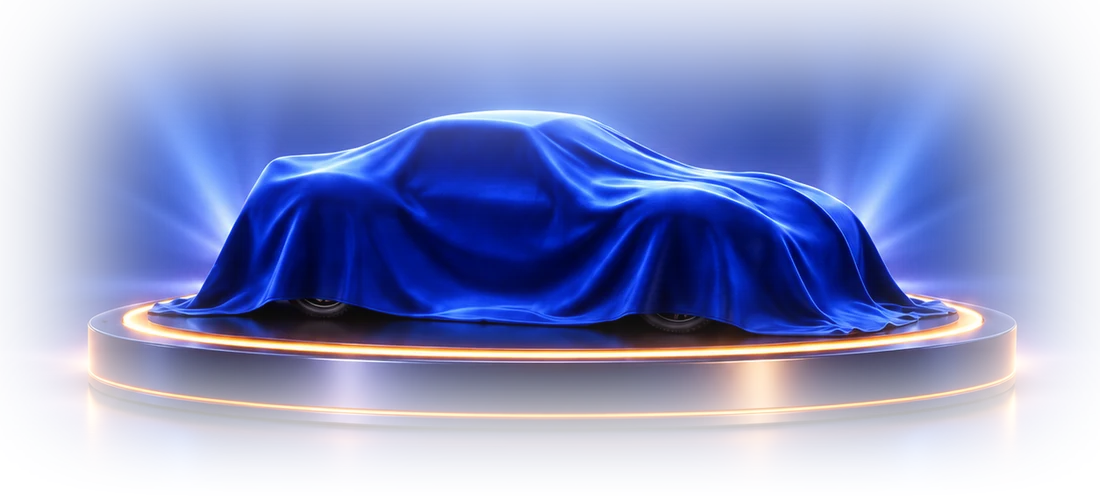
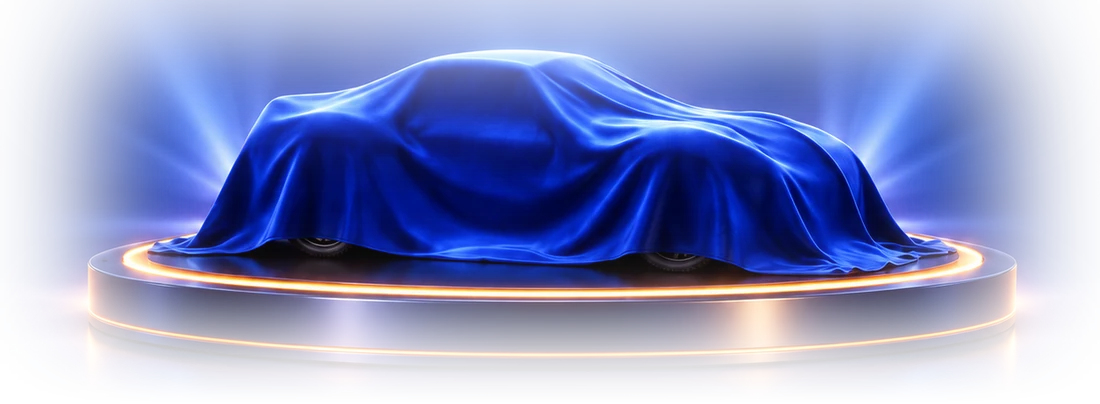
Fit Race now inside the real fold, and fix the countdown's reading
Three things.

The band was sized against an 812px viewport, which is not the fold on a
phone: Safari's own chrome and the bottom nav take most of 150px, so the real
first screen is nearer 600px of usable height and the Race now pill was
sitting under the nav. Measured against the nav rather than the viewport this
time, which is the mistake that hid it in the first place. Most of the 46px
came out of the plate — the previous crop carried a band of empty glow above
the roof and below the platform that cost height for no subject — and the rest
from the lockup and the spacing around the clock. Race now now clears the nav
on a 667px viewport with 8px to spare, and by 153px on a tall one.

"ENDS IN" is centred on its own line. Set beside the dates chip the two read
as one run-on phrase — "ends in 12-14 Nov" — which is not what either half was
saying. The window moves below the flaps, where it is a fact about the drop
rather than part of the countdown's sentence.

Days and hours rather than hours and minutes. Minutes moved faster than anyone
acts on a three-day drop, and folding days into hours turned a readable "2
days" into a 58 nobody parses at a glance.

The points counter under the plate is gone. Stating a personal score to grind
made the reveal sound like a private unlock; it is a campaign moment everyone
gets on the final day, so it now says that. MYSTERY_UNLOCK_POINTS stays in the
store where the rule lives — it is simply no longer quoted on the home screen.

diff --git a/src/styles/base.css b/src/styles/base.css
@@ -278,7 +278,7 @@ input, select, textarea { font: inherit; color: inherit; }
 .ctake {
   position: relative;
   margin-top: -1px;
-  padding: 30px var(--gut) 14px;
+  padding: 28px var(--gut) 12px;
   /* The reference storefronts all sit on one saturated colour — hot pink for
      Promise Day, deep red for Diwali, a bright blue for the ice cream. This
      was a muted navy, which is why it read as pale. */
@@ -340,7 +340,7 @@ input, select, textarea { font: inherit; color: inherit; }
      132px to save space took the occasion out of it. Back up, but short of the
      218px billboard that pushed the shop off the screen. */
   margin: 0 auto 2px;
-  max-width: 104px;
+  max-width: 72px;
   line-height: 0;
   filter: drop-shadow(0 6px 18px rgba(255, 120, 20, 0.45));
 }
@@ -355,7 +355,7 @@ input, select, textarea { font: inherit; color: inherit; }
    back exactly the rectangle the feathering exists to remove. */
 .mystery {
   width: calc(100% + var(--gut) * 2);
-  margin: 4px calc(var(--gut) * -1) 0;
+  margin: 0 calc(var(--gut) * -1) 0;
 }
 .mystery__plate {
   display: block; width: 100%;
@@ -370,7 +370,7 @@ input, select, textarea { font: inherit; color: inherit; }
    the artwork and the one thing there is to do, which is what it replaced. */
 .mystery__go {
   display: block;
-  margin: -26px auto 0;
+  margin: -34px auto 0;
   position: relative; z-index: 2;
   background: var(--yellow);
   color: var(--ink);
@@ -383,7 +383,7 @@ input, select, textarea { font: inherit; color: inherit; }
 
 /* The rule as a line of type, not a panel. */
 .mystery__prog {
-  margin: 5px var(--gut) 0;
+  margin: 4px var(--gut) 0;
   text-align: center;
   font-size: var(--f-xs); font-weight: 600;
   color: rgba(255, 255, 255, 0.72);
@@ -398,7 +398,7 @@ input, select, textarea { font: inherit; color: inherit; }
   display: flex; align-items: center; justify-content: center; gap: 6px;
   width: calc(100% + var(--gut) * 2);
   margin: 8px calc(var(--gut) * -1) -14px;
-  padding: 12px var(--gut) 14px;
+  padding: 11px var(--gut) 12px;
   background: rgba(0, 0, 0, 0.26);
   border: 0;
   color: #fff;
@@ -1093,23 +1093,25 @@ input, select, textarea { font: inherit; color: inherit; }
   text-align: center;
   color: #fff;
 }
-.dropclock__head {
-  display: flex; align-items: center; justify-content: center; gap: 8px;
-  margin-bottom: 5px;
-}
 .dropclock__lead {
+  display: block;
   font-size: var(--f-2xs); font-weight: 800;
   letter-spacing: 0.16em; text-transform: uppercase;
   color: var(--yellow);
+  margin-bottom: 4px;
 }
 /* The dates were a 9px grey line under everything and were being lost. Set as
    a solid chip beside the lead, they read at a glance and stop competing with
    the flaps for the same greyed-out register. */
+/* Under the flaps rather than beside the lead. The window is a fact about the
+   drop, not part of the sentence the countdown is saying. */
 .dropclock__dates {
+  display: inline-block;
+  margin-top: 3px;
   background: var(--yellow);
   color: var(--ink);
   border-radius: 999px;
-  padding: 3px 9px 4px;
+  padding: 3px 10px 4px;
   font-size: var(--f-2xs); font-weight: 800;
   letter-spacing: 0.04em;
   white-space: nowrap;
@@ -1118,7 +1120,7 @@ input, select, textarea { font: inherit; color: inherit; }
 .dropclock__cell { display: block; }
 .dropclock__flaps { display: flex; gap: 3px; }
 .dropclock__cell small {
-  display: block; margin-top: 13px;
+  display: block; margin-top: 8px;
   font-size: 8px; font-weight: 700; letter-spacing: 0.14em;
   color: rgba(255, 255, 255, 0.6);
 }
@@ -1129,7 +1131,7 @@ input, select, textarea { font: inherit; color: inherit; }
    split across the hinge. */
 .flip {
   position: relative; display: block;
-  width: 30px; height: 42px;
+  width: 27px; height: 37px;
   perspective: 140px;
   font-variant-numeric: tabular-nums;
 }
@@ -1142,7 +1144,7 @@ input, select, textarea { font: inherit; color: inherit; }
   position: absolute; left: 0; right: 0;
   height: 200%;
   display: grid; place-items: center;
-  font-size: 26px; font-weight: 800; line-height: 1;
+  font-size: 23px; font-weight: 800; line-height: 1;
   color: #fff;
 }
 .flip__pane--top { top: 0; border-radius: 5px 5px 0 0; }
@@ -1193,7 +1195,7 @@ input, select, textarea { font: inherit; color: inherit; }
    partner set beneath. Every festive storefront carries one of these between
    the masthead and the tile grid. */
 .cpower {
-  margin: 4px auto 0;
+  margin: 2px auto 0;
   display: flex; flex-direction: column; align-items: center; gap: 0;
 }
 .cpower__l {

diff --git a/src/pages/Home.tsx b/src/pages/Home.tsx
@@ -3,7 +3,7 @@ import { useNavigate } from 'react-router-dom';
 import { AppHeader, BlinkitMark, SectionHeader } from '../design/components/Chrome';
 import { ProductCard } from '../design/components/ProductCard';
 import { CATEGORIES, HERO_CARS, SHOP_CARS } from '../data/catalog';
-import { useStore, MAX_RACE_ATTEMPTS, MYSTERY_UNLOCK_POINTS } from '../store/useStore';
+import { useStore, MAX_RACE_ATTEMPTS } from '../store/useStore';
 import { DROP_DATES } from '../data/drop';
 import { useDrop } from '../data/useDrop';
 import { FlipClock } from '../design/components/FlipClock';
@@ -15,8 +15,6 @@ export default function Home() {
   const nav = useNavigate();
   const { toast } = useToast();
   const racesLeft = useStore((s) => s.racesLeft);
-  const totalPoints = useStore((s) => s.totalPoints);
-  const mysteryUnlocked = useStore((s) => s.mysteryUnlocked);
   const { status: drop, parts } = useDrop();
   const [details, setDetails] = useState(false);
 
@@ -105,20 +103,11 @@ export default function Home() {
               Race now
             </button>
 
-            {/* The rule, kept as a line of type rather than a panel: the cover
-                lifts at MYSTERY_UNLOCK_POINTS and points come from racing. The
-                number is read from the store, never typed here, so the promise
-                cannot drift from the rule that enforces it. */}
-            <p className="mystery__prog">
-              {mysteryUnlocked ? (
-                <>Cover lifted — <b>the final drop car is yours to see</b></>
-              ) : (
-                <>
-                  <b>{totalPoints.toLocaleString('en-IN')}</b> of{' '}
-                  {MYSTERY_UNLOCK_POINTS.toLocaleString('en-IN')} points to lift the cover
-                </>
-              )}
-            </p>
+            {/* What the cloth is hiding and when it comes off. This was a
+                points counter against the unlock threshold, which made the
+                reveal sound like a personal score to grind rather than a
+                campaign moment everyone shares on the last day. */}
+            <p className="mystery__prog">Revealed on the final day of the drop</p>
           </div>
 
           {/* The reference closes its campaign block with a darker full-bleed

diff --git a/src/design/components/FlipClock.tsx b/src/design/components/FlipClock.tsx
@@ -82,29 +82,24 @@ export type FlipClockProps = {
 };
 
 export function FlipClock({ parts, lead, dates, onClick }: FlipClockProps) {
-  /* Hours and minutes only. Seconds turned the board into something that
-     demanded attention once a second for information nobody acts on at that
-     resolution, and days split the same number across two units — 58 hours
-     reads as a race clock, "2 days 10 hours" reads as a calendar. */
-  const totalHours = parts.days * 24 + parts.hours;
+  /* Days and hours. Minutes and seconds both moved faster than anyone acts on
+     a three-day drop, and folding days into hours turned a readable "2 days"
+     into a 58 nobody parses at a glance. */
   const cells: [string, string][] = [
-    [String(totalHours).padStart(2, '0'), 'HRS'],
-    [PAD(parts.mins), 'MIN'],
+    [PAD(parts.days), parts.days === 1 ? 'DAY' : 'DAYS'],
+    [PAD(parts.hours), 'HRS'],
   ];
 
   const Tag = onClick ? 'button' : 'div';
   return (
     <Tag className="dropclock" type={onClick ? 'button' : undefined} onClick={onClick}>
-      <span className="dropclock__head">
-        <span className="dropclock__lead">{lead}</span>
-        {dates && <span className="dropclock__dates">{dates}</span>}
-      </span>
+      {/* Centred on its own line. Set beside the dates chip it read as one
+          run-on phrase — "ends in 12-14 Nov" — which is not what either half
+          was saying. */}
+      <span className="dropclock__lead">{lead}</span>
       <span className="dropclock__row">
         {cells.map(([v, l]) => (
           <span className="dropclock__cell" key={l}>
-            {/* One flap per digit, so the tens sits still while the units
-                turns — and a long count (61 days out, before the drop opens)
-                simply grows a third flap rather than overflowing. */}
             <span className="dropclock__flaps">
               {[...v].map((ch, i) => (
                 <FlipCell key={i} value={ch} />
@@ -114,6 +109,7 @@ export function FlipClock({ parts, lead, dates, onClick }: FlipClockProps) {
           </span>
         ))}
       </span>
+      {dates && <span className="dropclock__dates">{dates}</span>}
     </Tag>
   );
 }
